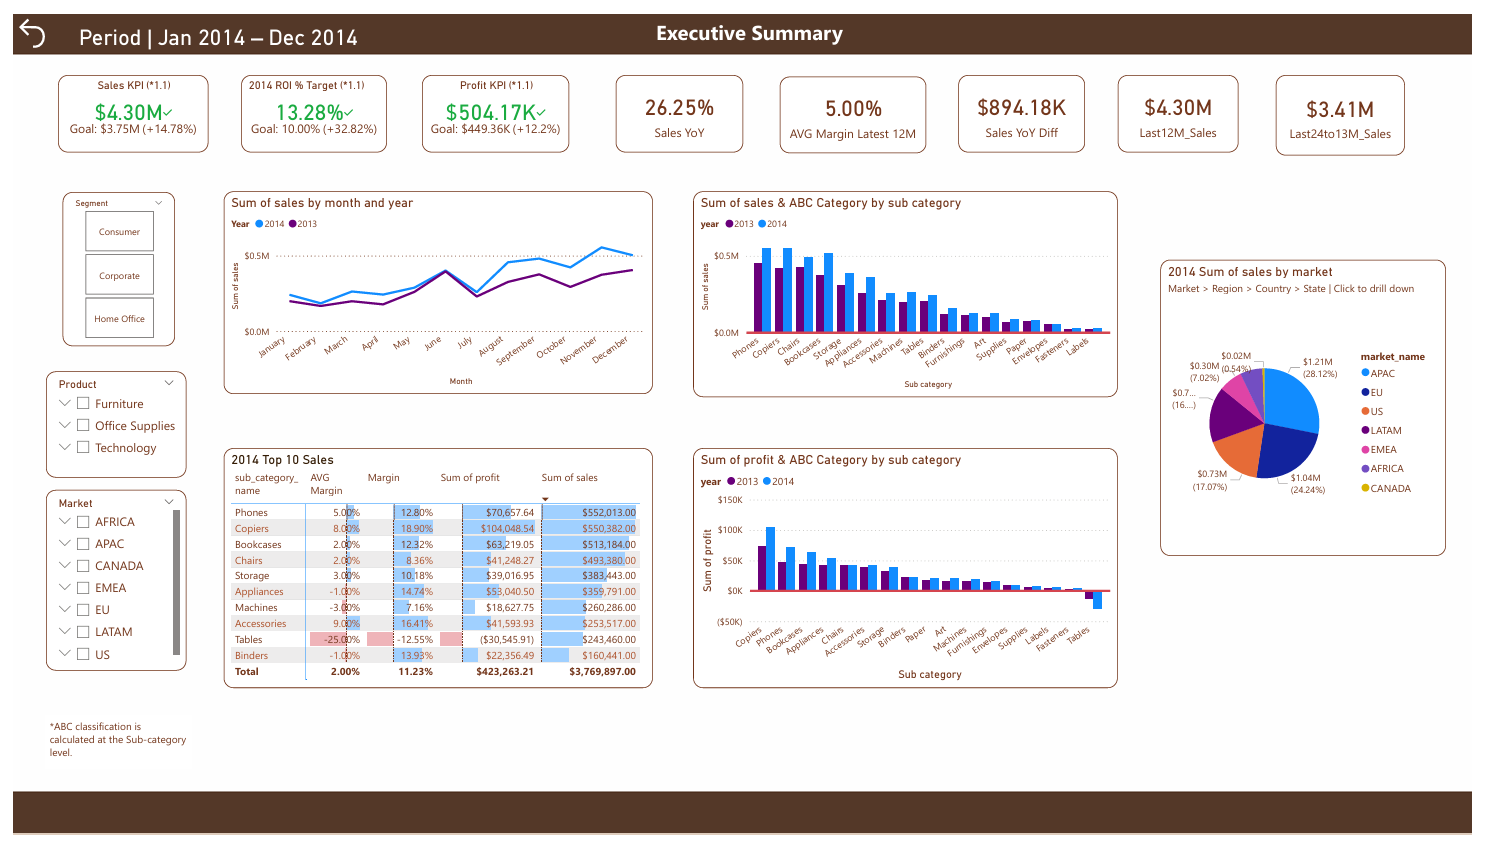
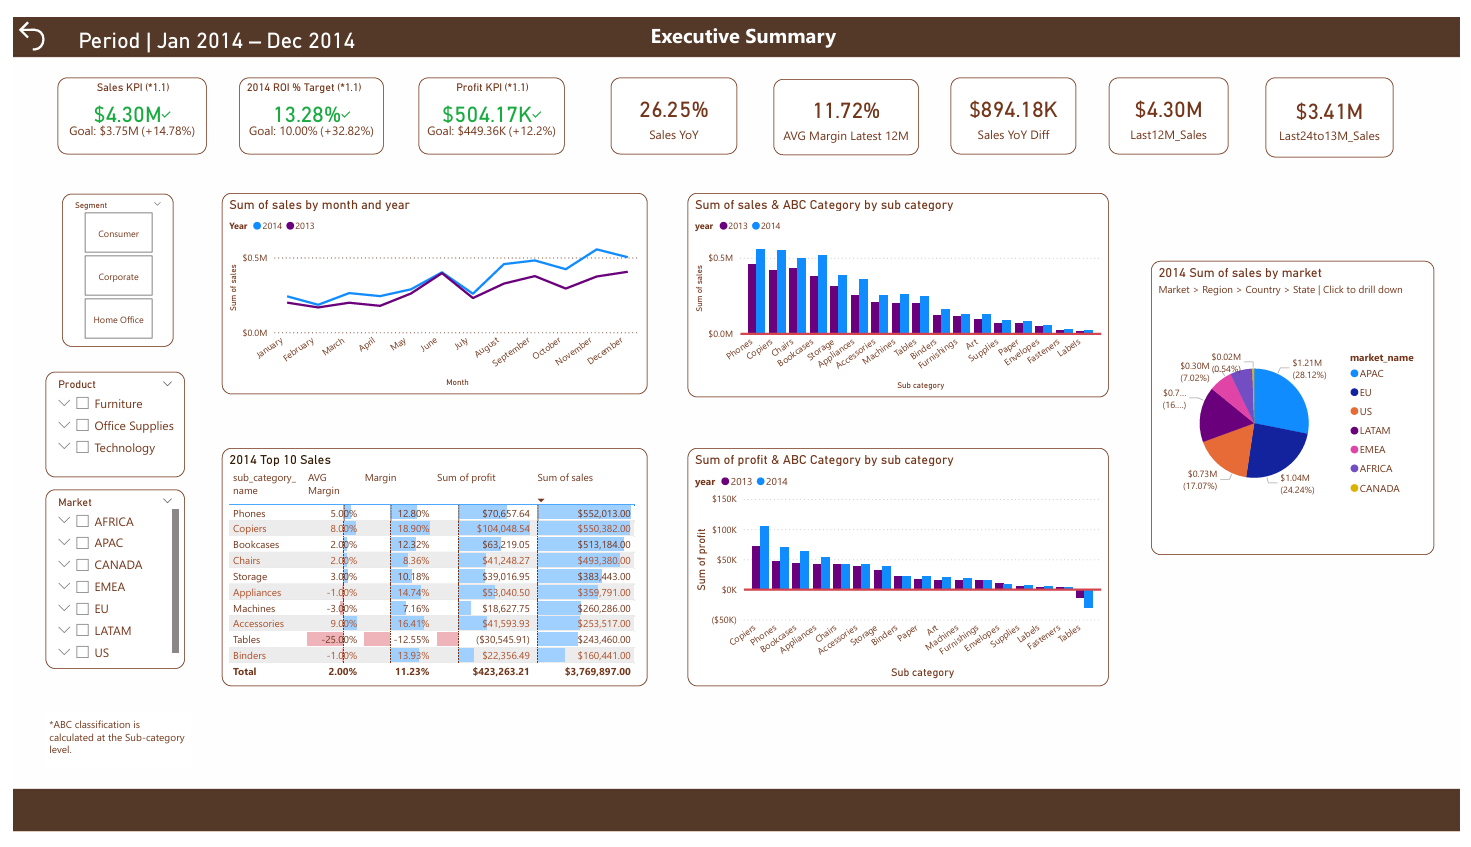
revise AVG Margin formal

diff --git a/README.md b/README.md
@@ -186,7 +186,7 @@ ORDER BY profit_margin_pct DESC;
 ### Page 1: Executive Summary
 <img src="screenshot/bi01.png" alt="Executive Summary Dashboard" width="100%">
 
-- **KPI Cards**: Sales ($4.30M), Profit ($504K), ROI (13.28%), Sales YoY (+26.25%), Avg Margin (5.00%)
+- **KPI Cards**: Sales ($4.30M), Profit ($504K), ROI (13.28%), Sales YoY (+26.25%), Avg Margin (11.72%)
 - **Sales Trend**: Monthly comparison (2013 vs 2014) highlighting seasonal patterns
 - **Top 10 Sub-Categories**: Sales, profit, margin table with conditional formatting (negative margins flagged)
 - **Market Distribution**: Pie chart — APAC (28%), EU (24%), US (17%), LATAM (16%), EMEA (7%)

diff --git a/README.zh-CN.md b/README.zh-CN.md
@@ -185,7 +185,7 @@ ORDER BY profit_margin_pct DESC;
 ### 第 1 页：高层摘要
 <img src="screenshot/bi01.png" alt="Executive Summary Dashboard" width="100%">
 
-- **KPI 卡片**：销售额（$4.30M）、利润（$504K）、ROI（13.28%）、销售额 YoY（+26.25%）、平均利润率（5.00%）
+- **KPI 卡片**：销售额（$4.30M）、利润（$504K）、ROI（13.28%）、销售额 YoY（+26.25%）、平均利润率（11.72%）
 - **销售趋势**：月度对比（2013 vs 2014），突显季节性规律
 - **前 10 子类别**：销售额、利润、利润率表格，含条件格式（负利润率标红）
 - **市场分布**：圆饼图 — APAC（28%）、EU（24%）、US（17%）、LATAM（16%）、EMEA（7%）

diff --git a/README.zh-TW.md b/README.zh-TW.md
@@ -186,7 +186,7 @@ ORDER BY profit_margin_pct DESC;
 ### 第 1 頁：高層摘要
 <img src="screenshot/bi01.png" alt="Executive Summary Dashboard" width="100%">
 
-- **KPI 卡片**：銷售額（$4.30M）、利潤（$504K）、ROI（13.28%）、銷售額 YoY（+26.25%）、平均利潤率（5.00%）
+- **KPI 卡片**：銷售額（$4.30M）、利潤（$504K）、ROI（13.28%）、銷售額 YoY（+26.25%）、平均利潤率（11.72%）
 - **銷售趨勢**：月度對比（2013 vs 2014），突顯季節性規律
 - **前 10 子類別**：銷售額、利潤、利潤率表格，含條件格式（負利潤率標紅）
 - **市場分佈**：圓餅圖 — APAC（28%）、EU（24%）、US（17%）、LATAM（16%）、EMEA（7%）